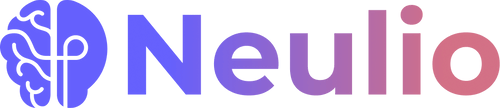
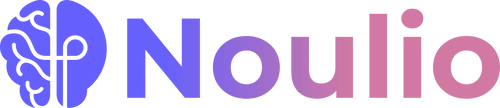
Name Change
Name change

diff --git a/index.html b/index.html
@@ -5,20 +5,20 @@
   <meta charset="utf-8">
   <meta content="width=device-width, initial-scale=1" name="viewport">
   <!-- Primary Meta Tags -->
-<title>Neulio | Bringing new ideas to life through code.</title>
+<title>Noulio | Bringing new ideas to life through code.</title>
 <meta name="title" content="Bringing new ideas to life through code." />
 <meta name="description" content="Your on-demand product & engineering team working with you to build, refine, and scale custom software. We specialize in AI  & LLM Operations." />
 
 <!-- Open Graph / Facebook -->
 <meta property="og:type" content="website" />
-<meta property="og:url" content="https://neulio.com" />
+<meta property="og:url" content="https://noulio.com" />
 <meta property="og:title" content="Bringing new ideas to life through code." />
 <meta property="og:description" content="Your on-demand product & engineering team working with you to build, refine, and scale custom software. We specialize in AI  & LLM Operations." />
 <meta property="og:image" content="images/meta.png" />
 
 <!-- Twitter -->
 <meta property="twitter:card" content="summary_large_image" />
-<meta property="twitter:url" content="https://neulio.com" />
+<meta property="twitter:url" content="https://noulio.com" />
 <meta property="twitter:title" content="Bringing new ideas to life through code." />
 <meta property="twitter:description" content="Your on-demand product & engineering team working with you to build, refine, and scale custom software. We specialize in AI  & LLM Operations." />
 <meta property="twitter:image" content="images/meta.png" />
@@ -27,7 +27,7 @@
 
   <link href="css/normalize.css" rel="stylesheet" type="text/css">
   <link href="css/webflow.css" rel="stylesheet" type="text/css">
-  <link href="css/neulio.webflow.css" rel="stylesheet" type="text/css">
+  <link href="css/noulio.webflow.css" rel="stylesheet" type="text/css">
   <link href="https://fonts.googleapis.com" rel="preconnect">
   <link href="https://fonts.gstatic.com" rel="preconnect" crossorigin="anonymous">
   <script src="https://ajax.googleapis.com/ajax/libs/webfont/1.6.26/webfont.js" type="text/javascript"></script>
@@ -121,7 +121,7 @@ body {
               <div class="tab-pane-grid">
                 <div id="w-node-b8bc016a-487b-09be-d595-e5e9ca4a85d9-e27d2942">
                   <h2 class="heading-11">We&#x27;re a complete product team</h2>
-                  <p class="paragraph-3">We have extensive expertise from design to product management to engineering management and system architecture. By working with Neulio, you&#x27;re getting an extension of your existing team who can help you think through and solve problems while delivering excellence.</p>
+                  <p class="paragraph-3">We have extensive expertise from design to product management to engineering management and system architecture. By working with Noulio, you&#x27;re getting an extension of your existing team who can help you think through and solve problems while delivering excellence.</p>
                   <div class="bullet-list margin-bottom-30">
                     <div class="bullet-list-item">
                       <div class="bullet">
@@ -266,7 +266,7 @@ body {
           <div id="w-node-fc447acc-e5d7-6a45-4032-aca7ca736ffd-e27d2942" class="facts-content">
             <h3 class="label text-secondary">Customer Satisfaction</h3>
             <h1 class="display-2 margin-bottom-25">We strive to make your project <span class="text-gradient text-emphasize">stress-free</span> through transparency and feedback.</h1>
-            <p class="paragraph margin-bottom-30">When you work with a company like Neulio, we understand that you're looking for a great experience, and that's what we do. There are no special tricks, our expertise and experience mean we know how to put in the work to make sure everything is done right. </p>
+            <p class="paragraph margin-bottom-30">When you work with a company like Noulio, we understand that you're looking for a great experience, and that's what we do. There are no special tricks, our expertise and experience mean we know how to put in the work to make sure everything is done right. </p>
             <div class="numbers-grid cc-margin-top">
               <div id="w-node-_894aa9ac-1240-38a9-f28e-a969f9df5f80-e27d2942">
                 <h4 class="display-2 margin-bottom-none">99.7%</h4>
@@ -299,15 +299,15 @@ body {
   <div class="footer background-dark">
     <div class="container">
       <div class="footer-grid">
-        <div id="w-node-_11e2dc3d-d1e1-458c-44c2-5749cd8efbb2-cd8efba7"><img src="images/neulio.png" loading="lazy" height="Auto" alt="" width="200" srcset="images/neulio-p-500.png 500w, images/neulio-p-800.png 800w, images/neulio-p-1080.png 1080w, images/neulio-p-1600.png 1600w, images/neulio-p-2000.png 2000w, images/neulio-p-2600.png 2600w, images/neulio-p-3200.png 3200w, images/neulio.png 4390w" sizes="200px" class="logo margin-bottom-20">
+        <div id="w-node-_11e2dc3d-d1e1-458c-44c2-5749cd8efbb2-cd8efba7"><img src="images/noulio.png" loading="lazy" height="Auto" alt="" width="200" srcset="images/noulio-p-500.png 500w, images/noulio-p-800.png 800w, images/noulio-p-1080.png 1080w, images/noulio-p-1600.png 1600w, images/noulio-p-2000.png 2000w, images/noulio-p-2600.png 2600w, images/noulio-p-3200.png 3200w, images/noulio.png 4390w" sizes="200px" class="logo margin-bottom-20">
           <div class="social-links-wrapper">
             <ul role="list" class="social-links w-list-unstyled"></ul>
           </div>
-          <a href="http://www.neulio.fr" class="link-white link-hov">🇫🇷 Site Français</a>
+          <a href="http://www.noulio.fr" class="link-white link-hov">🇫🇷 Site Français</a>
         </div>
         <div id="w-node-_8f7ea63b-6288-e065-7546-5196852be006-cd8efba7" class="div-block">
           <div class="address margin-bottom-20">Get in touch for a free consultation.</div>
-          <a href="mailto:hello@neulio.com" class="link-hover link-white">hello@neulio.com</a> 
+          <a href="mailto:hello@noulio.com" class="link-hover link-white">hello@noulio.com</a> 
           <div class="text-block-4">+33 6 77 20 04 08</div>
         </div>
       </div>
